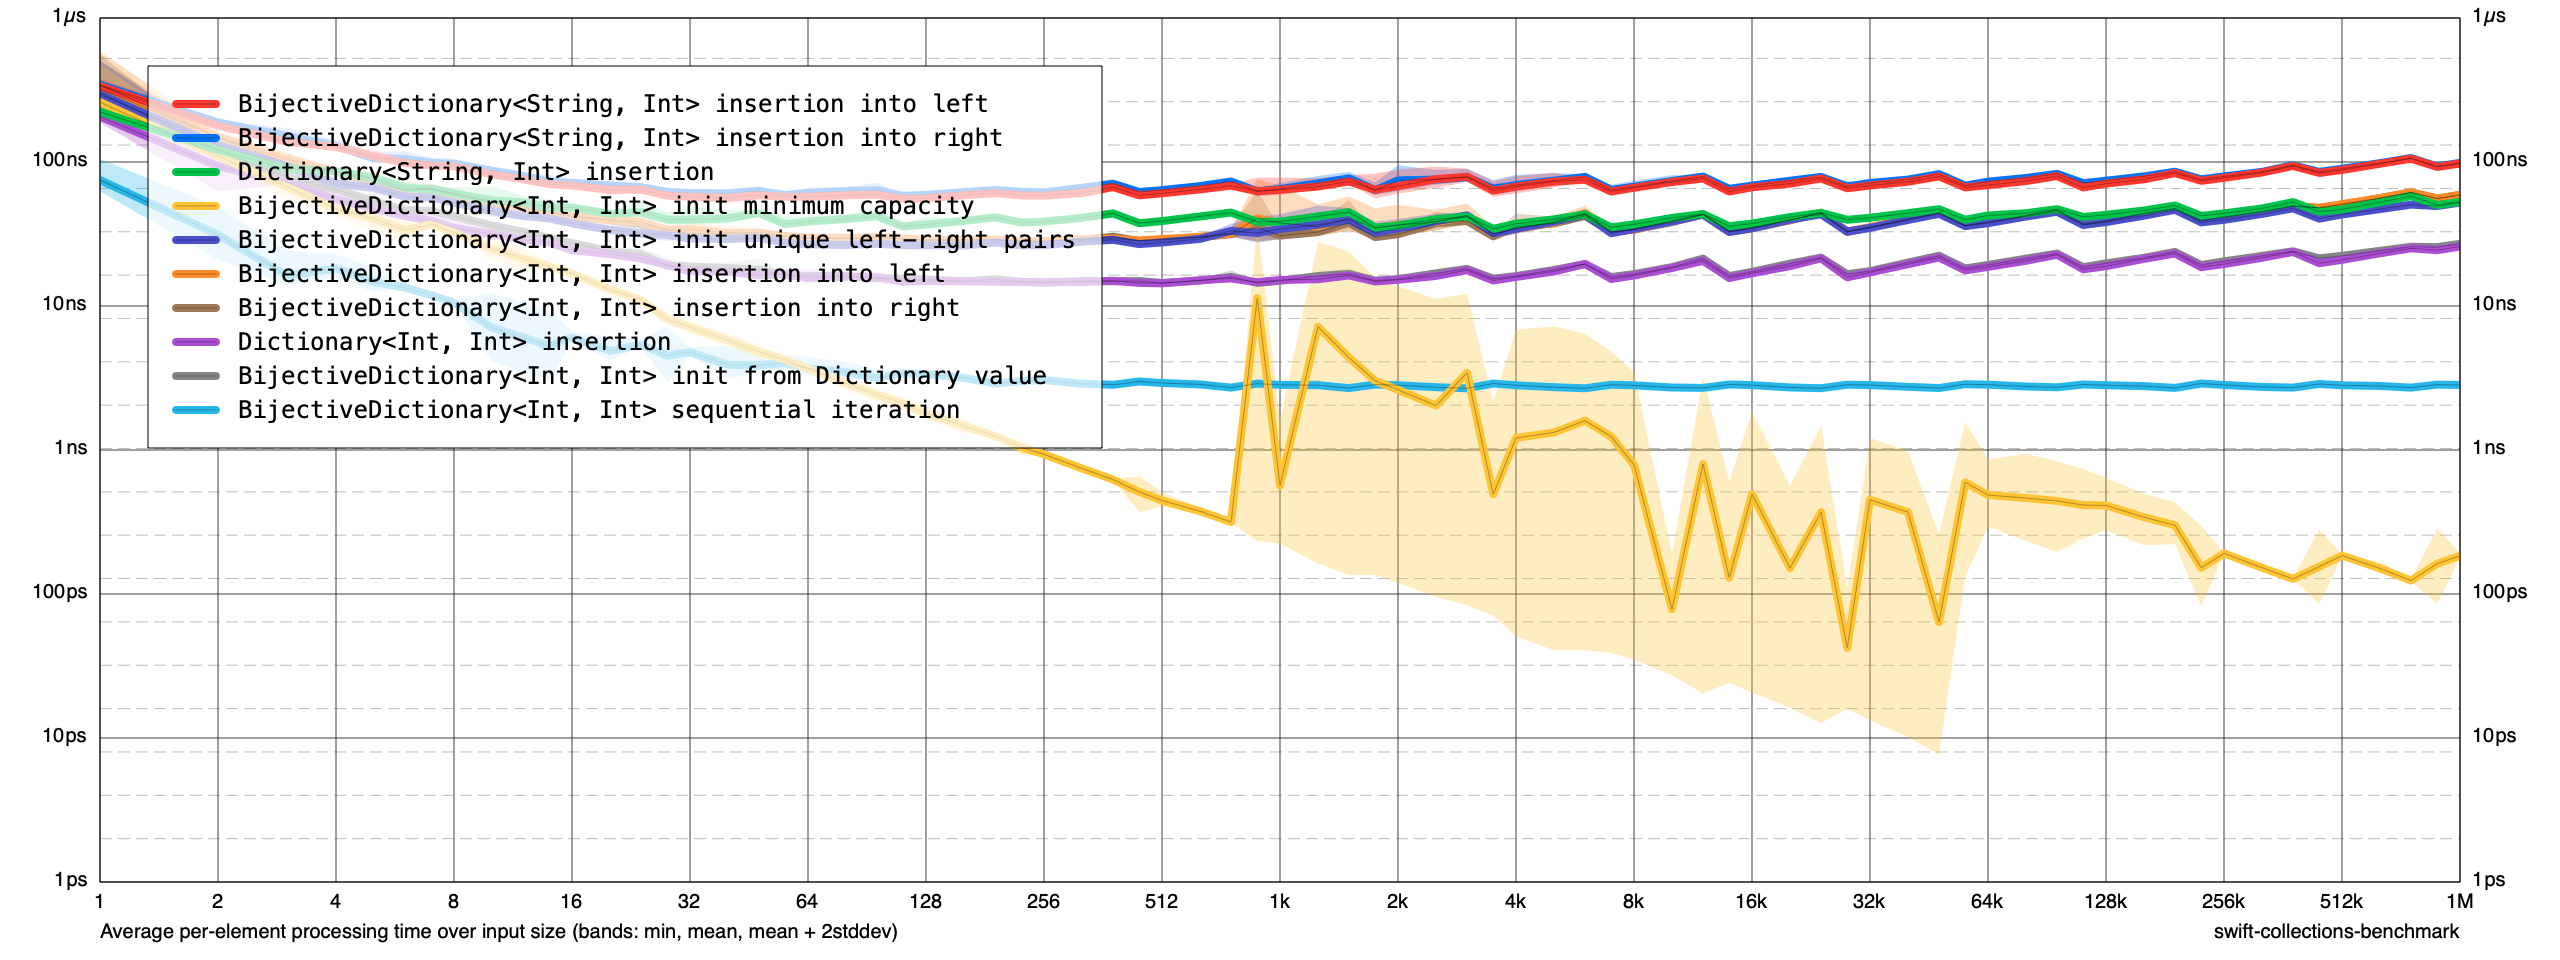
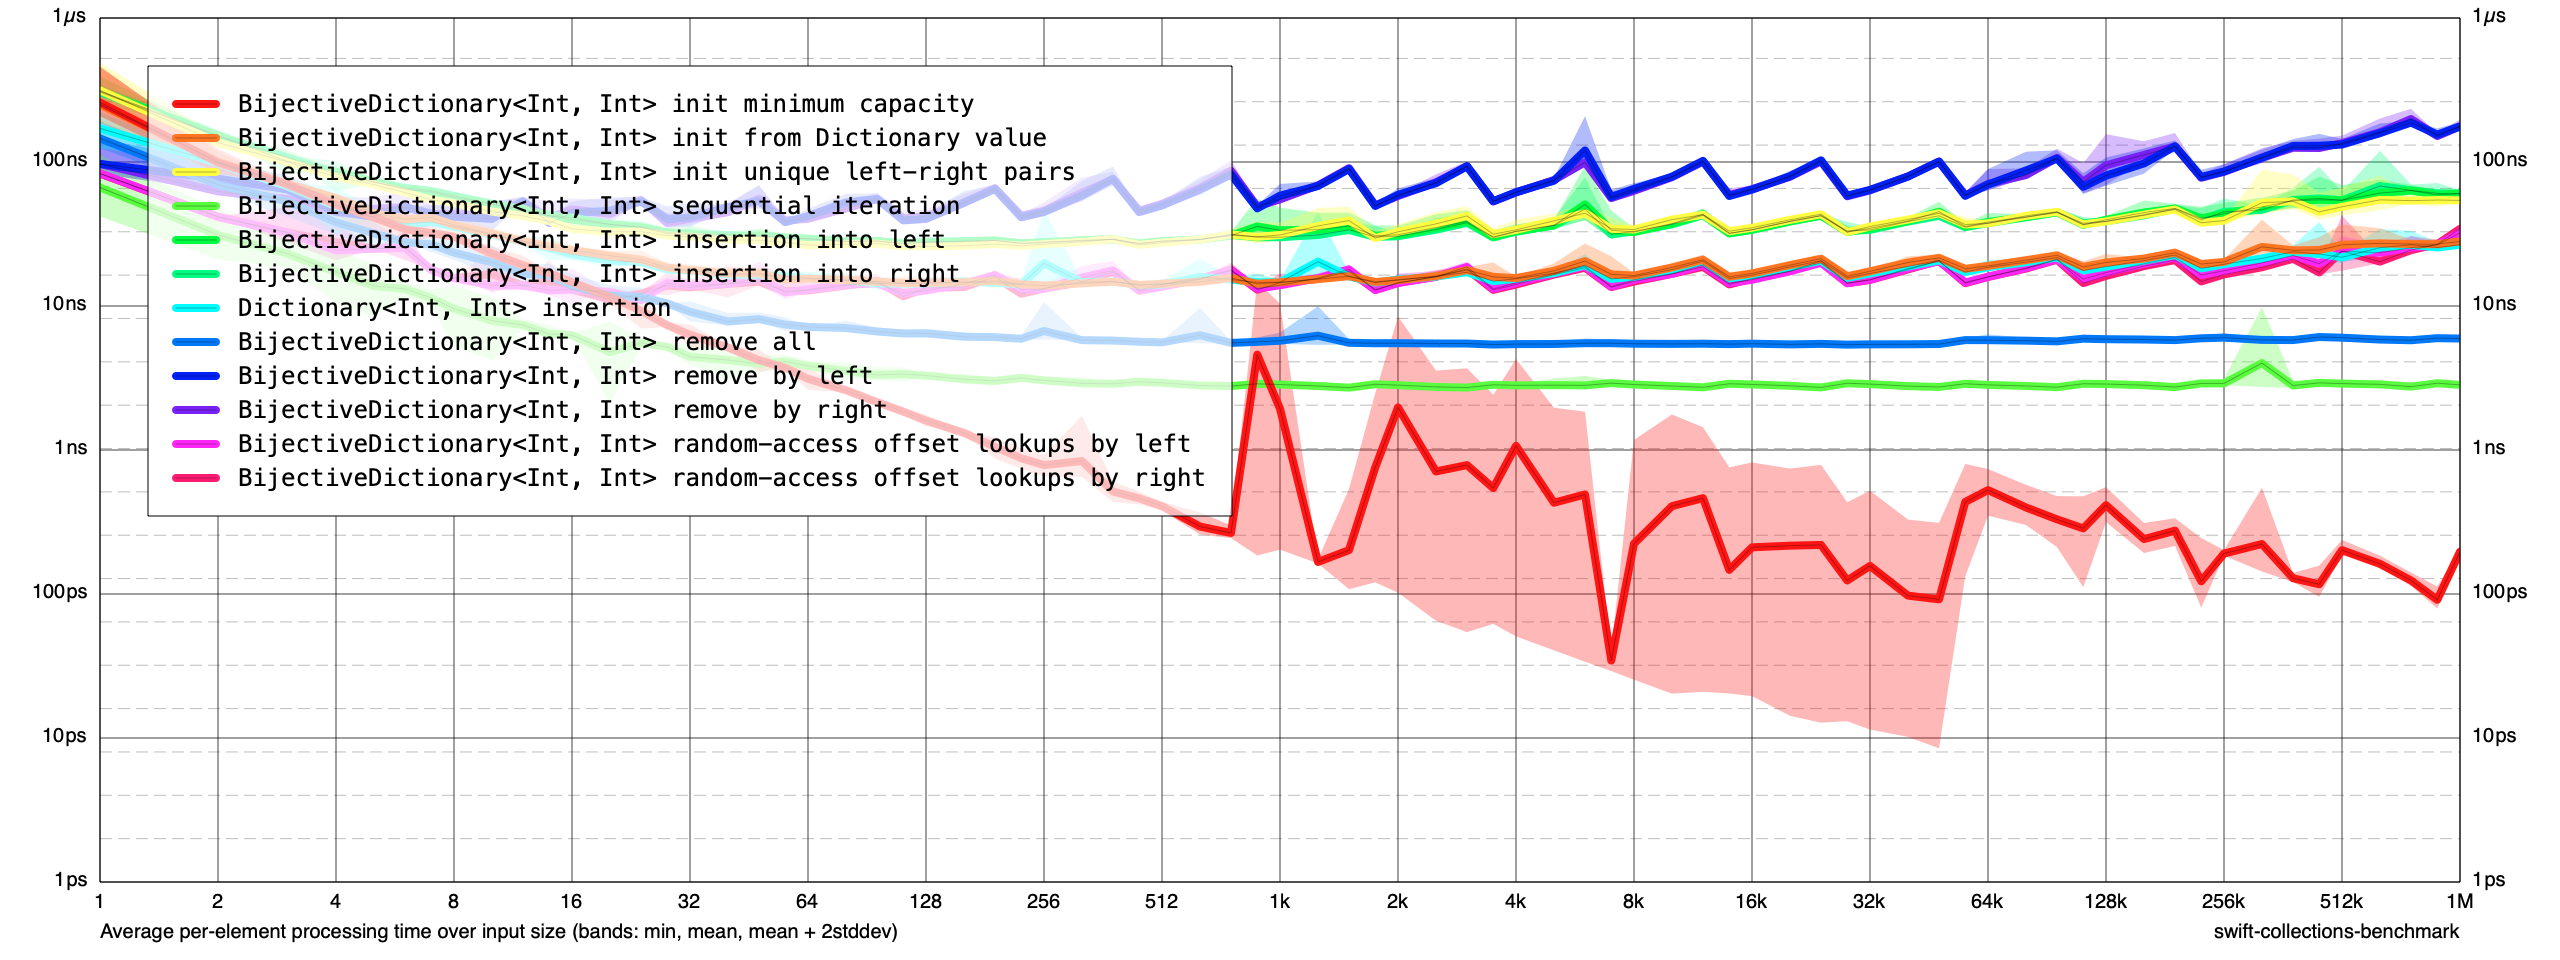
Add more benchmarks

Changed region(s): [[0.0312, 0.0625, 0.9688, 0.7812]]

diff --git a/Sources/BijectiveDictionaryBenchmark/main.swift b/Sources/BijectiveDictionaryBenchmark/main.swift
@@ -114,11 +114,86 @@ benchmark.addSimple(
 }
 
 // MARK: Removal
+benchmark.add(
+    title: "BijectiveDictionary<Int, Int> remove all",
+    input: ([Int], [Int]).self
+) { input, removals in
+    return { timer in
+        let pairs = zip(input, input)
+        var dict = BijectiveDictionary<Int, Int>(uniqueLeftRightPairs: pairs)
+        timer.measure {
+            for i in removals {
+                dict.removeAll()
+            }
+        }
+        precondition(dict.isEmpty)
+        blackHole(dict)
+    }
+}
 
+benchmark.add(
+    title: "BijectiveDictionary<Int, Int> remove by left",
+    input: ([Int], [Int]).self
+) { input, removals in
+    return { timer in
+        let pairs = zip(input, input)
+        var dict = BijectiveDictionary<Int, Int>(uniqueLeftRightPairs: pairs)
+        timer.measure {
+            for i in removals {
+                dict.remove(byLeft: i)
+            }
+        }
+        precondition(dict.isEmpty)
+        blackHole(dict)
+    }
+}
+
+benchmark.add(
+    title: "BijectiveDictionary<Int, Int> remove by right",
+    input: ([Int], [Int]).self
+) { input, removals in
+    return { timer in
+        let pairs = zip(input, input)
+        var dict = BijectiveDictionary<Int, Int>(uniqueLeftRightPairs: pairs)
+        timer.measure {
+            for i in removals {
+                dict.remove(byRight: i)
+            }
+        }
+        precondition(dict.isEmpty)
+        blackHole(dict)
+    }
+}
+
+benchmark.add(
+    title: "BijectiveDictionary<Int, Int> random-access offset lookups by left",
+    input: ([Int], [Int]).self
+) { input, lookups in
+    return { timer in
+        let pairs = zip(input, input)
+        var dict = BijectiveDictionary<Int, Int>(uniqueLeftRightPairs: pairs)
+        timer.measure {
+            for i in lookups {
+                blackHole(dict[left: i])
+            }
         }
     }
 }
 
+benchmark.add(
+    title: "BijectiveDictionary<Int, Int> random-access offset lookups by right",
+    input: ([Int], [Int]).self
+) { input, lookups in
+    return { timer in
+        let pairs = zip(input, input)
+        var dict = BijectiveDictionary<Int, Int>(uniqueLeftRightPairs: pairs)
+        timer.measure {
+            for i in lookups {
+                blackHole(dict[right: i])
+            }
+        }
+    }
 }
+
 
 benchmark.main()
